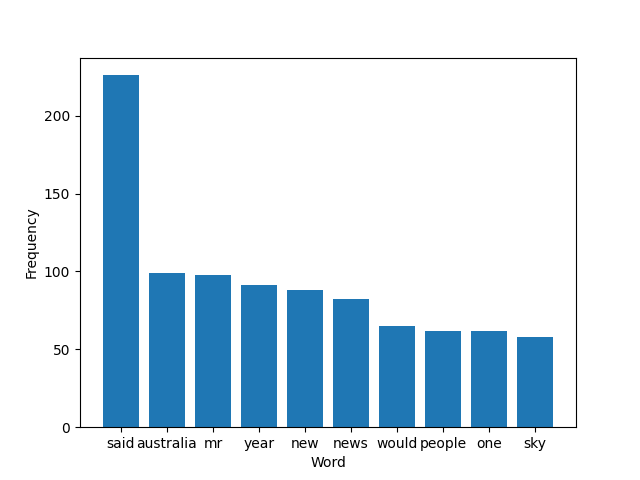
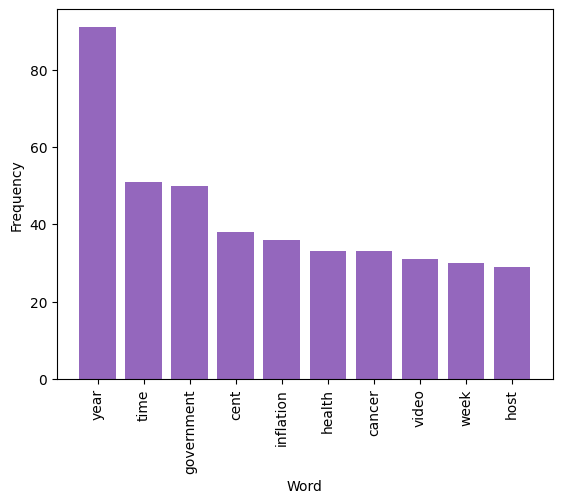
f

diff --git a/report_web_app/report/templates/frequency.html b/report_web_app/report/templates/frequency.html
@@ -1,34 +1,11 @@
-<!-- <!DOCTYPE html>
-<html>
-<head>
-    <title>Index</title>
-</head>
-<body>
-    <form method="post">
-        <label>Top K</label>
-        </br>
-        <input name="topk" id="topk" value="10">
-        </br>
-        <input type="submit" value="Show" name="submit">
-    </form> 
-    <p>{{ do_show }}</p>
-    {% if do_show == True %}
-        <img src="{{ url_for('static', filename='plot.png') }}" alt="User Image">
-    {% endif %}
-
-</body>
-</html> -->
-
-
-
-{% extends 'base.html' %}
+{% extends 'home.html' %}
 
 {% block content %}
     <form method="post">
         <label>Top K</label>
-        </br>
+        </br></br>
         <input name="topk" id="topk" value="10">
-        </br>
+        </br></br>
         <input type="submit" value="Show" name="submit">
     </form> 
     <p>{{ do_show }}</p>

diff --git a/report_web_app/report/templates/home.html b/report_web_app/report/templates/home.html
@@ -36,7 +36,7 @@ body {
 <body>
 
 <div class="topnav">
-    <a href="{{ url_for('home') }}">Home</a>
+    <!-- <a href="{{ url_for('home') }}">Home</a> -->
     <a href="{{ url_for('frequency') }}">Frequency</a>
 </div>
 

diff --git a/report_web_app/report/src/plot.py b/report_web_app/report/src/plot.py
@@ -3,8 +3,7 @@ matplotlib.use('Agg')
 import matplotlib.pyplot as plt
 
 from .conn import get_database
-from .functions import lowercase_string_ls, remove_stop_words
-from .utils import extract_words
+from .functions import lowercase_string_ls, remove_stop_words, extract_nouns_from_text, extract_words
 
 
 def most_word_appearence(save_path: str, topk:int = 10) -> None:
@@ -17,7 +16,8 @@ def most_word_appearence(save_path: str, topk:int = 10) -> None:
 
     for item in items:
         for line in item['raw_content']:
-            words += extract_words(line)
+            text = extract_words(line)
+            words += extract_nouns_from_text(text)
 
     words = lowercase_string_ls(words)
     words = remove_stop_words(words)
@@ -29,12 +29,12 @@ def most_word_appearence(save_path: str, topk:int = 10) -> None:
         else:
             word_count[word] = 1
 
-    
 
     top = sorted(word_count.items(), key=lambda item: item[1], reverse=True)[:topk]
 
     plt.bar([item[0] for item in top], [item[1] for item in top])
     plt.xlabel("Word")
     plt.ylabel("Frequency")
+    plt.xticks(rotation=90)
 
-    plt.savefig(save_path)
+    plt.savefig(save_path, bbox_inches='tight')

diff --git a/report_web_app/report/src/functions.py b/report_web_app/report/src/functions.py
@@ -1,6 +1,8 @@
-from typing import List
+import re
+from typing import List, Union
 
 from nltk.corpus import stopwords
+from nltk import word_tokenize, pos_tag
 
 
 def lowercase_string_ls(string_ls: List[str]) -> List[str]:
@@ -13,3 +15,20 @@ def remove_stop_words(string_ls: List[str]) -> List[str]:
 
     return [w for w in string_ls if w not in stop_words]
 
+
+def extract_nouns_from_text(text: Union[str, List[str]]) -> List[str]:
+
+    if type(text) == str:
+        text = word_tokenize(text)
+
+    pos_tagged = pos_tag(text)
+
+    nouns = filter(lambda x: x[1]=='NN', pos_tagged)
+
+    return [p[0] for p in nouns]
+
+
+def extract_words(string: str) -> List[str]:
+    pattern = r"\w+"
+
+    return re.findall(pattern, string)
